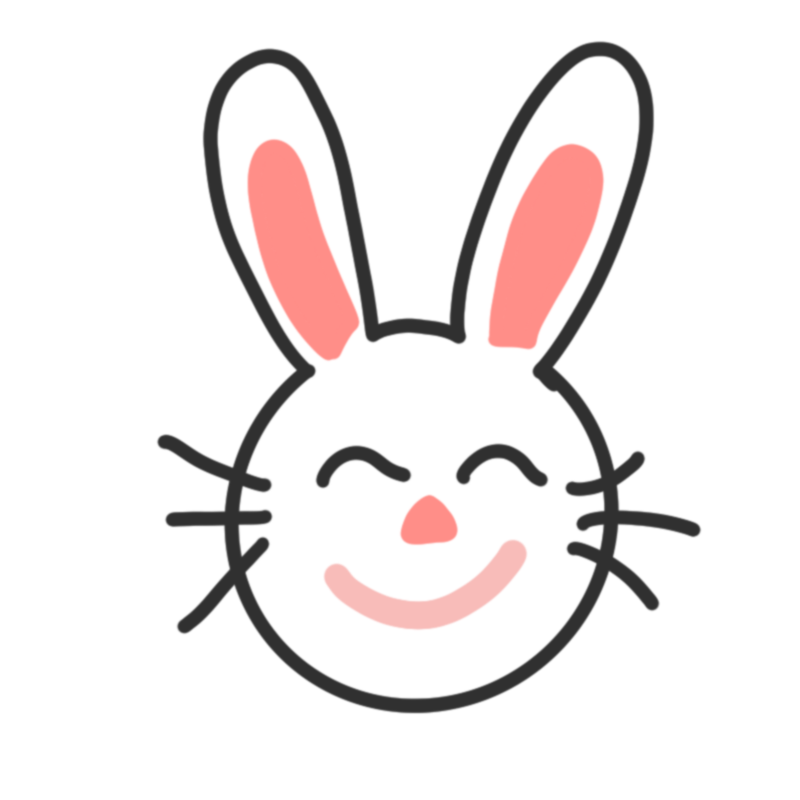
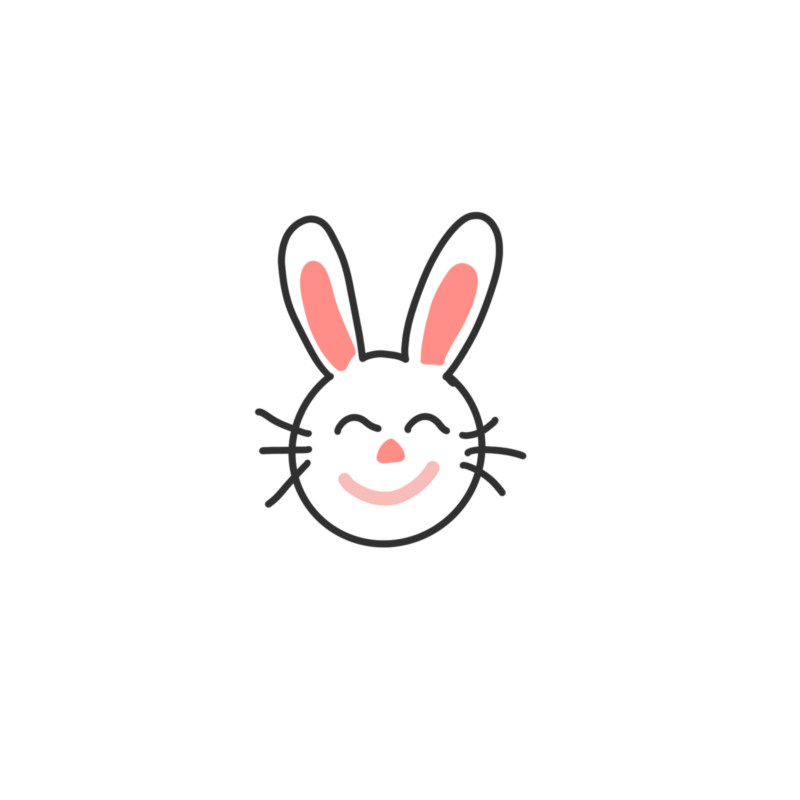
added final mood pngs

Changed region(s): [[0.1875, 0.0312, 0.875, 0.9062]]

diff --git a/sketch.js b/sketch.js
@@ -1,9 +1,9 @@
 /*******************************************************************************************************************
-    Moods Example
+    Mood State Machine 
     by Scott Kildall
 
-    Uses the p5.SimpleStateMachine library. Check the README.md + source code documentation
-    The index.html needs to include the line:  <script src="p5.simpleStateManager.js"></script>
+   This project uses P5js and state machines. Our task was to edit a csv document and 
+   modify the UI features of our website. 
 *********************************************************************************************************************/
 
 var simpleStateMachine;           // the SimpleStateManager class
@@ -17,7 +17,7 @@ function preload() {
 
 // Setup code goes here
 function setup() {
-  createCanvas(1000, 1000);
+  createCanvas(1300, 900);
   imageMode(CENTER);
 
   // setup the state machine with callbacks
@@ -69,15 +69,13 @@ function keyPressed() {
   }
 }
 
-//==== MODIFY THIS CODE FOR UI =====/
-
 function drawBackground() {
-  background('#F5F5DC');
+  background('#FAF9F6');
 }
 
 function drawImage() {
   if( moodImage !== undefined ) {
-    image(moodImage, width/2, height/2);
+    image(moodImage, width/2, height/2 - 30);
   }  
 }
 
@@ -88,12 +86,13 @@ function drawUI() {
 
   for( let i = 0; i < transitions.length; i++ ) {
     fill('black');
+    textStyle(NORMAL);
 
     if( selectedTransitionNum === i ) {
       textStyle(BOLDITALIC);
-      fill(240,50,0);
+      fill('blue');
     }
-    text( transitions[i], 100, (height - 100) + (i*30)  );
+    text( transitions[i], (width/2 - 180) + (i*300), (height/2 + 200), 120);
   }
 
   pop();
